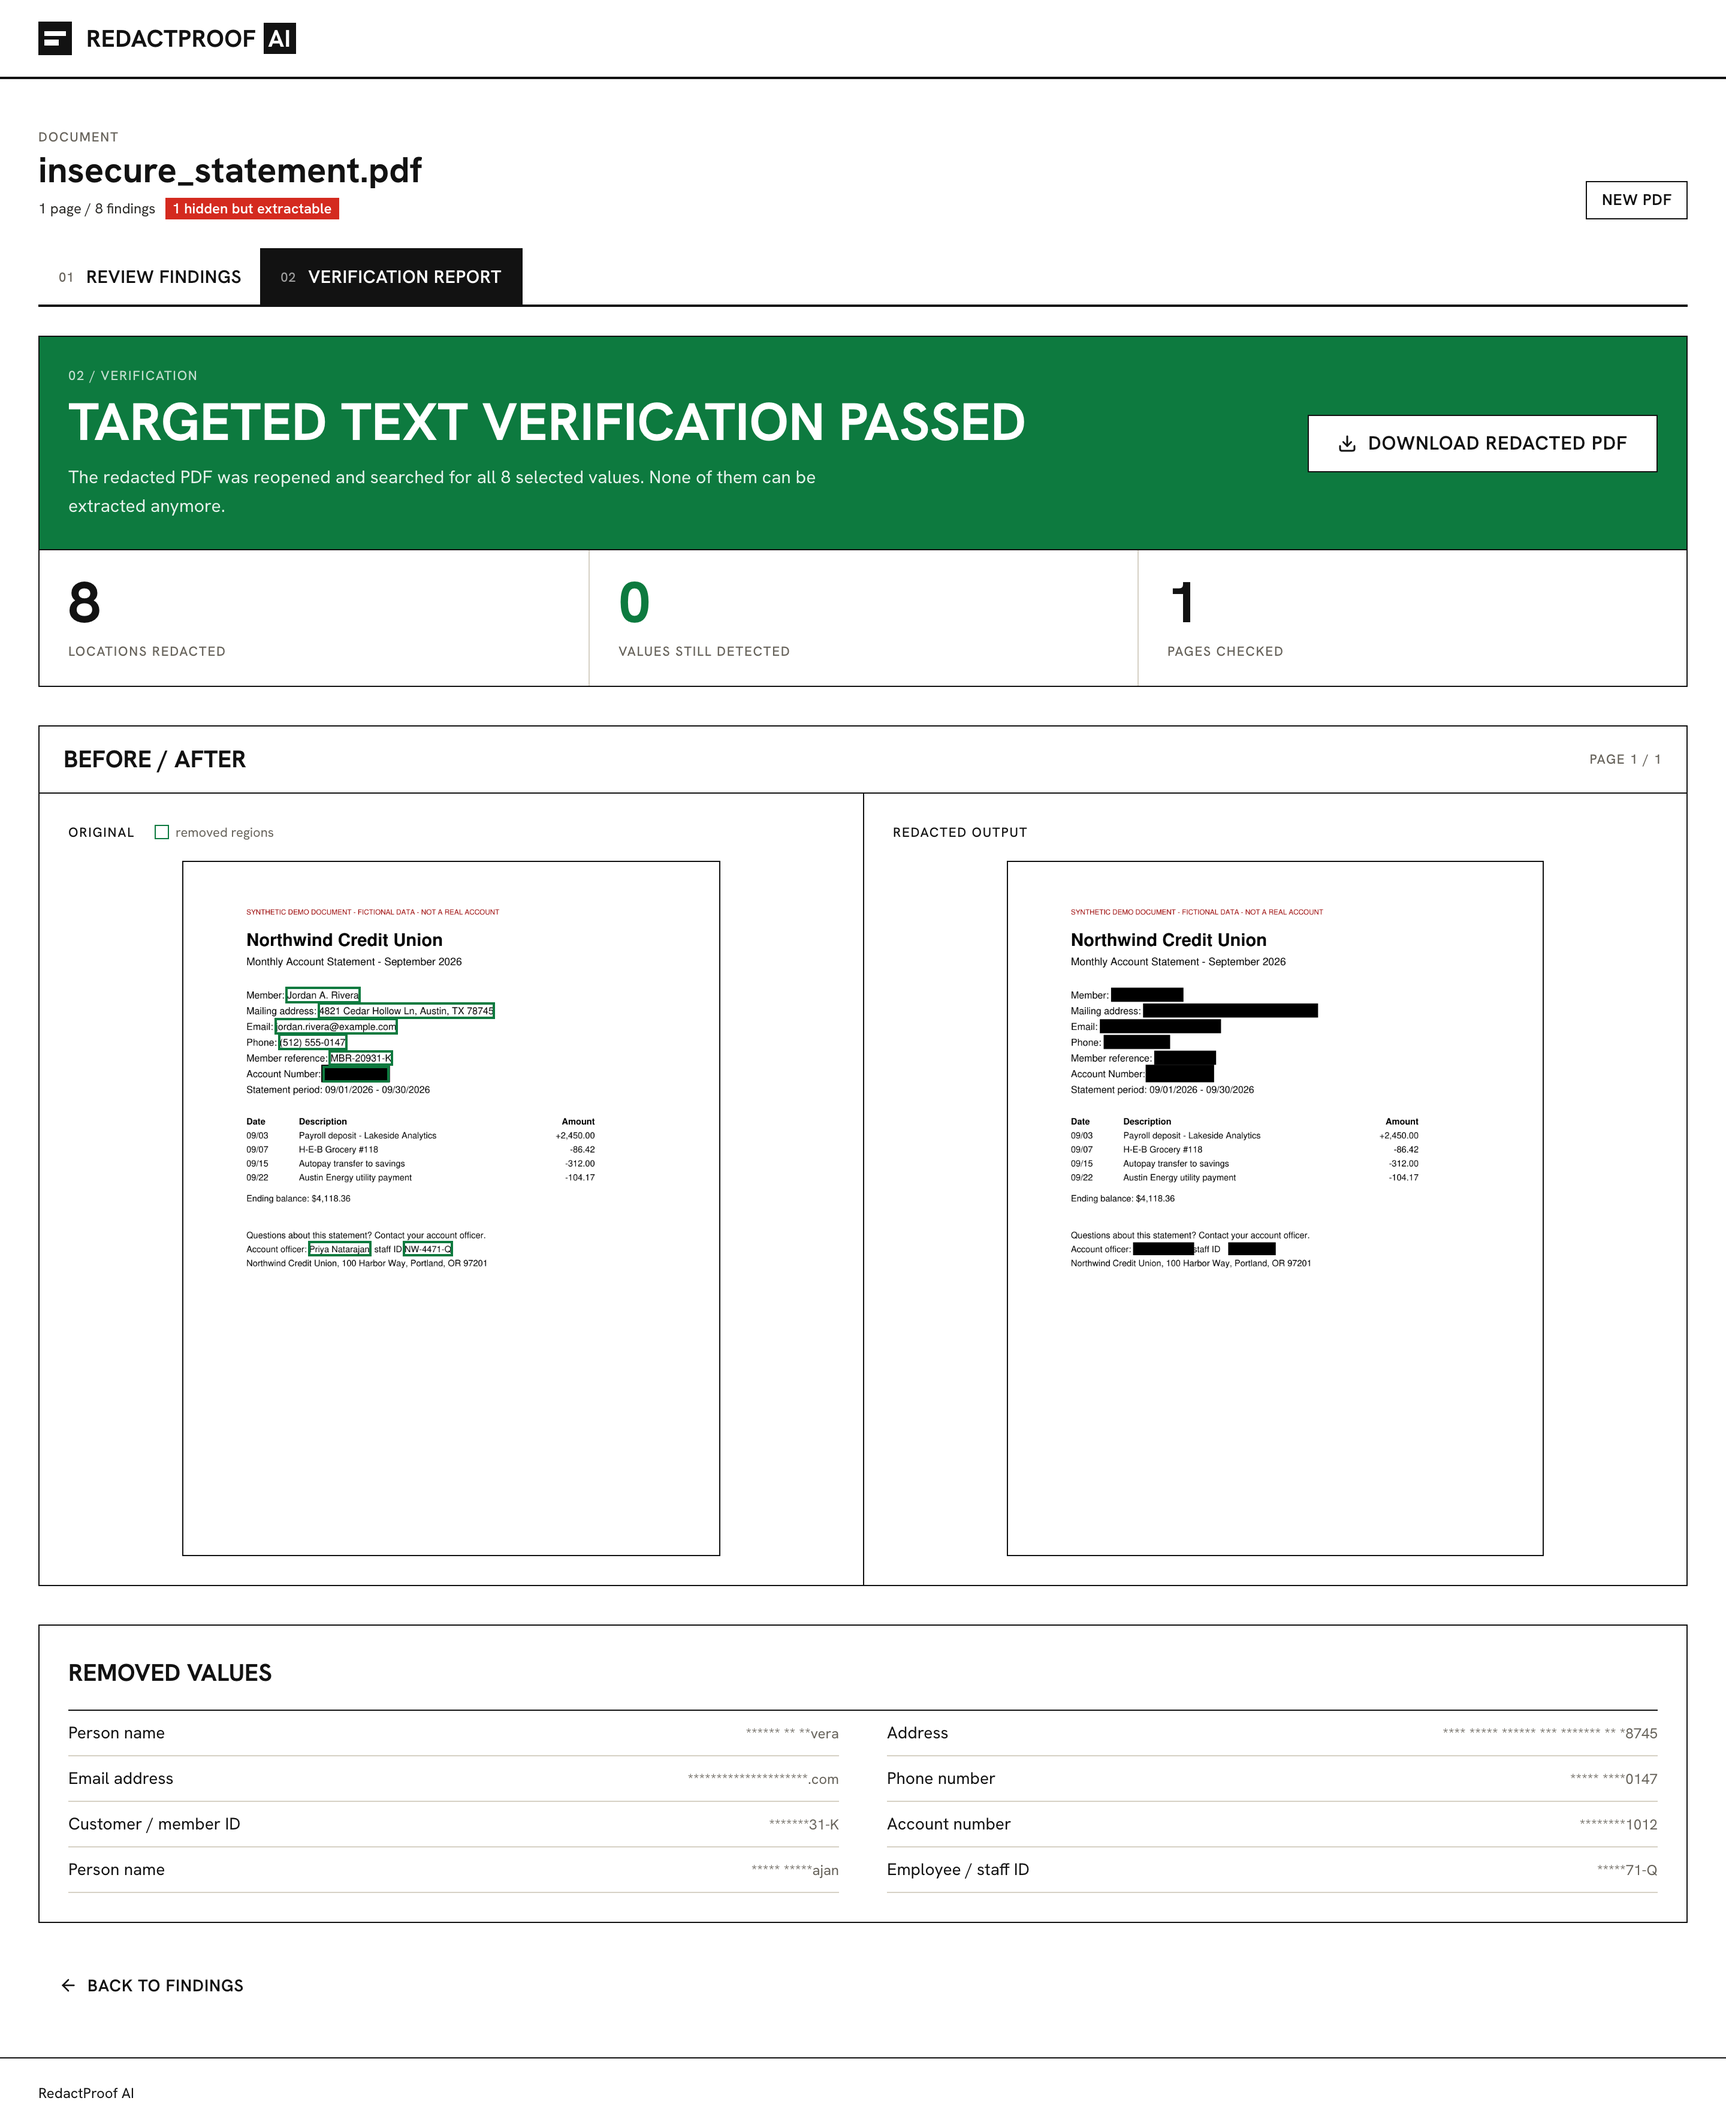
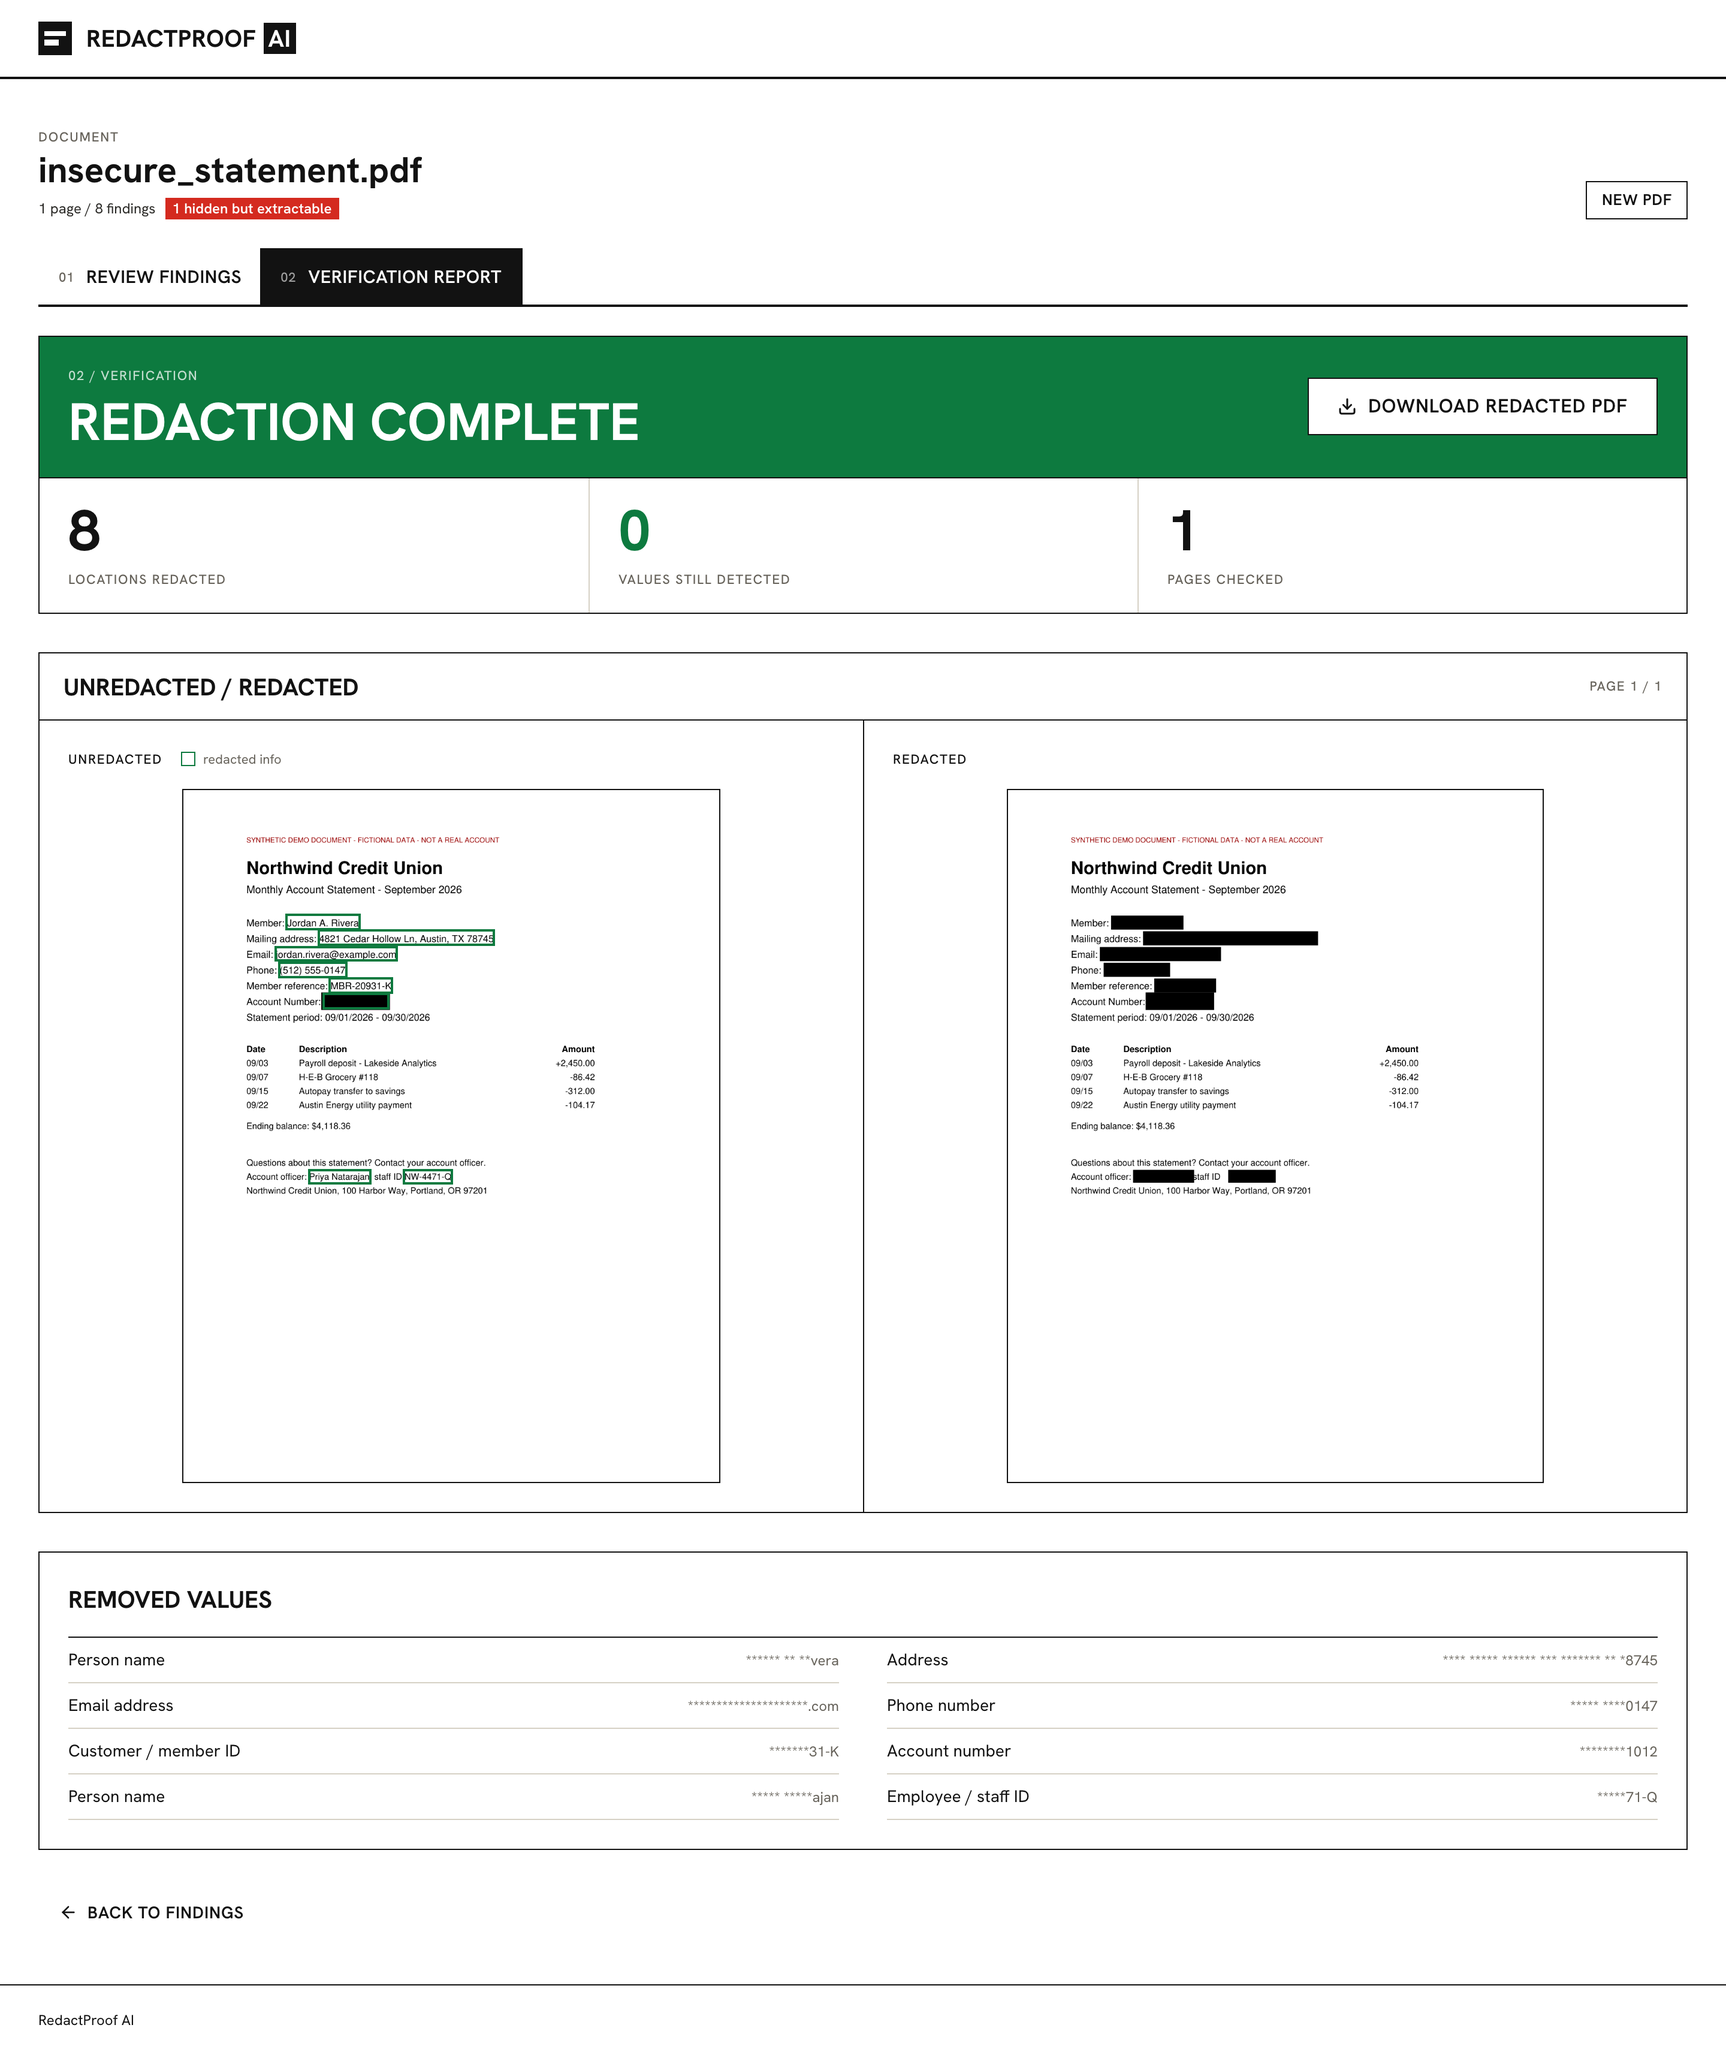
Rename report labels and stop outlines appearing on hover
- Report heading reads "Redaction complete"; drop the sentence under it
  (the failure message is kept)
- "Before / after" is now "Unredacted / redacted"; the key reads
  "redacted info"
- Borderless buttons, tabs, page boxes and finding rows no longer gain an
  outline on hover; they fade slightly instead

diff --git a/frontend/src/components/BeforeAfterViewer.tsx b/frontend/src/components/BeforeAfterViewer.tsx
@@ -17,30 +17,30 @@ export function BeforeAfterViewer({ analysis, result, page, onPageChange }: Befo
   const removed = analysis.findings.filter((f) => redacted.has(f.id))
 
   return (
-    <section aria-label="Before and after" className="panel">
+    <section aria-label="Unredacted and redacted" className="panel">
       <div className="flex h-14 items-center justify-between gap-2 border-b-[1.5px] border-ink px-5">
-        <h3 className="font-display text-[20px] font-bold text-ink uppercase">Before / after</h3>
+        <h3 className="font-display text-[20px] font-bold text-ink uppercase">Unredacted / redacted</h3>
         <PageNav page={page} count={Math.min(analysis.pages.length, result.pages.length)} onChange={onPageChange} />
       </div>
       <div className="grid bg-surface md:grid-cols-2">
         <figure className="p-6">
           <figcaption className="mb-4 flex items-center gap-4">
-            <span className="tag text-ink">Original</span>
+            <span className="tag text-ink">Unredacted</span>
             <span className="flex items-center gap-1.5 font-mono text-[11px] text-muted">
-              <Swatch className="border-success" /> removed regions
+              <Swatch className="border-success" /> redacted info
             </span>
           </figcaption>
           <DocumentViewer
             page={before}
             imageUrl={api.url(before.preview_url)}
-            alt={`Original page ${before.page}`}
+            alt={`Unredacted page ${before.page}`}
             findings={removed}
             toneFor={() => 'redacted'}
             reservedHeight={320}
           />
         </figure>
         <figure className="border-ink p-6 max-md:border-t-[1.5px] md:border-l-[1.5px]">
-          <figcaption className="tag mb-4 text-ink">Redacted output</figcaption>
+          <figcaption className="tag mb-4 text-ink">Redacted</figcaption>
           <DocumentViewer page={after} imageUrl={api.url(after.preview_url)} alt={`Redacted page ${after.page}`} reservedHeight={320} />
         </figure>
       </div>

diff --git a/frontend/src/components/VerificationReport.tsx b/frontend/src/components/VerificationReport.tsx
@@ -33,13 +33,14 @@ export function VerificationReport({ analysis, result, page, onPageChange, onBac
           <div role={passed ? 'status' : 'alert'}>
             <p className="tag text-white/75">02 / Verification</p>
             <h2 className="mt-2 font-display text-[34px] leading-none font-bold uppercase sm:text-[44px]">
-              {passed ? 'Targeted text verification passed' : 'Verification failed'}
+              {passed ? 'Redaction complete' : 'Verification failed'}
             </h2>
-            <p className="mt-3 max-w-2xl text-[15px] leading-relaxed text-white/90">
-              {passed
-                ? `The redacted PDF was reopened and searched for all ${v.values_tested} selected value${v.values_tested === 1 ? '' : 's'}. None of them can be extracted anymore.`
-                : `${v.values_still_detected} of the ${v.values_tested} selected values can still be extracted from the output. Do not share this file.`}
-            </p>
+            {!passed && (
+              <p className="mt-3 max-w-2xl text-[15px] leading-relaxed text-white/90">
+                {v.values_still_detected} of the {v.values_tested} selected values can still be extracted from the output. Do not
+                share this file.
+              </p>
+            )}
             {USE_MOCK && (
               <p className="mt-2 inline-block bg-paper px-1.5 font-mono text-[12px] font-semibold text-ink">Mock mode — no real redaction or verification happened.</p>
             )}

diff --git a/frontend/src/components/Workspace.tsx b/frontend/src/components/Workspace.tsx
@@ -178,7 +178,7 @@ function TabBar({ tabs, value, onChange }: { tabs: TabDef[]; value: Tab; onChang
             className={cx(
               'flex shrink-0 items-center gap-2.5 border-[1.5px] border-b-0 px-4 py-3 font-display text-[15px] font-semibold tracking-[0.02em] uppercase disabled:cursor-not-allowed disabled:opacity-35',
               i > 0 && '-ml-[1.5px]',
-              selected ? 'border-ink bg-ink text-paper' : 'border-transparent text-ink hover:border-ink hover:bg-surface',
+              selected ? 'border-ink bg-ink text-paper' : 'border-transparent text-ink hover:opacity-65',
             )}
           >
             <span className={cx('font-mono text-[11px] font-medium', selected ? 'text-paper/60' : 'text-muted')}>0{i + 1}</span>

diff --git a/frontend/src/components/ui.tsx b/frontend/src/components/ui.tsx
@@ -11,7 +11,7 @@ type ButtonVariant = 'primary' | 'secondary' | 'ghost' | 'danger'
 const BUTTON_VARIANTS: Record<ButtonVariant, string> = {
   primary: 'border-ink bg-ink text-paper hover:bg-body active:translate-y-px',
   secondary: 'border-ink bg-surface text-ink hover:bg-ink hover:text-paper active:translate-y-px',
-  ghost: 'border-transparent text-ink hover:border-ink hover:bg-surface',
+  ghost: 'border-transparent text-ink hover:opacity-65',
   danger: 'border-danger bg-danger text-white hover:bg-danger-ink hover:border-danger-ink active:translate-y-px',
 }
 

diff --git a/frontend/src/components/FindingCard.tsx b/frontend/src/components/FindingCard.tsx
@@ -27,7 +27,7 @@ export function FindingCard({ finding, selected, active, revealed, disabled, onS
       ref={ref}
       className={cx(
         'flex gap-3 border-b border-line py-3 pr-4 pl-3 transition-colors last:border-b-0',
-        active ? 'border-l-4 border-l-ink pl-2' : 'border-l-4 border-l-transparent hover:border-l-line',
+        active ? 'border-l-4 border-l-ink pl-2' : 'border-l-4 border-l-transparent',
       )}
     >
       <Checkbox

diff --git a/frontend/src/components/FindingHighlight.tsx b/frontend/src/components/FindingHighlight.tsx
@@ -54,7 +54,7 @@ export function FindingHighlight({ finding, location, pageWidth, pageHeight, sel
     'absolute border-2',
     toneClass,
     active && 'z-10',
-    onClick && 'cursor-pointer hover:border-[3px]',
+    onClick && 'cursor-pointer',
   )
 
   if (!onClick) return <span className={className} style={style} title={label} aria-hidden />

diff --git a/frontend/README.md b/frontend/README.md
@@ -64,7 +64,7 @@ To view one: `git checkout <tag>`. To bring one back on the branch: `git restore
 - **Highlights** come only from backend `locations[].bbox` (PDF points, top-left origin). Each box is placed as a percentage of `page.width`/`page.height` over an image sized with the page's aspect ratio — equivalent to `scale = displayWidth / page.width` and accurate at any size. A finding is one value; all of its locations are drawn, and the `p.N` chips jump to each page.
 - **Masking**: the UI shows `display` by default; `text` appears only after the user reveals it.
 - **Hidden text**: there is no Attacker View tab (product decision), so `pages[].extracted_text` isn't displayed. Findings the backend reports as `visually_hidden: true` are labeled “hidden · extractable”, and the document header counts them.
-- **Verification**: success is shown only when `verification.status === "passed"`, worded as "Targeted text verification passed". Failure lists `remaining`, and the download is labeled unverified.
+- **Verification**: "Redaction complete" is shown only when `verification.status === "passed"`. Otherwise the report says "Verification failed", lists `remaining`, and labels the download unverified.
 - **Gemini is not named anywhere in the UI**, and there is no privacy notice, model badge or list of PDF limits (product decision). The only Gemini field read is `gemini_status`: when it isn't `ok`, the findings panel shows a neutral “contextual analysis was unavailable” notice so users know results are pattern-only. Limits are still enforced, and the error messages explain them when a file is rejected.
 - **Errors** show the backend's `message`. `SESSION_EXPIRED_OR_NOT_FOUND` locks the workspace and offers "Upload again"; a failed preview image shows a placeholder.
 
